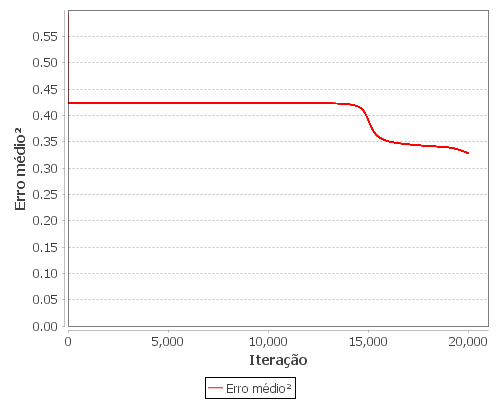
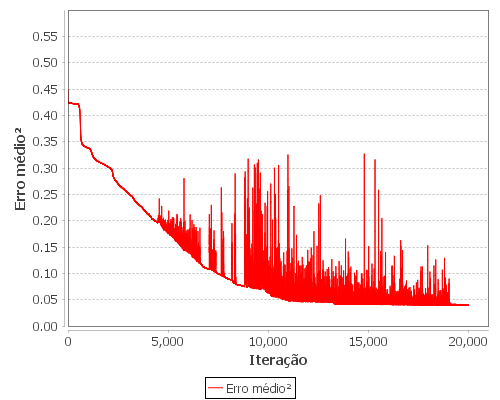
quarta camada adicionada

diff --git a/Digital Signal Processing/src/view/MLP_Functions.java b/Digital Signal Processing/src/view/MLP_Functions.java
@@ -30,7 +30,7 @@ public class MLP_Functions {
     }
     //********************************************************
     
-    public static void feed_forward(double[][] feature_matrix, int index, Neuron[] first_hidden_layer, Neuron[] second_hidden_layer, Neuron[] third_hidden_layer, Neuron[] output_layer){
+    public static void feed_forward(double[][] feature_matrix, int index, Neuron[] first_hidden_layer, Neuron[] second_hidden_layer, Neuron[] third_hidden_layer, Neuron[] fourth_hidden_layer, Neuron[] output_layer){
         for(int i=0; i<first_hidden_layer.length; i++){ //from input to first hidden layer
             first_hidden_layer[i].setActivation_value(0);
             for(int j=0; j<feature_matrix[0].length-1; j++){
@@ -61,11 +61,21 @@ public class MLP_Functions {
             third_hidden_layer[i].setActivation_value(sigmoid_function(third_hidden_layer[i].getActivation_value()));
         }
         
-        for(int i=0; i<output_layer.length; i++){ //from third hidden layer to output layer
-            output_layer[i].setActivation_value(0);
+        for(int i=0; i<fourth_hidden_layer.length; i++){ //from third to fourth hidden layer
+            fourth_hidden_layer[i].setActivation_value(0);
             for(int j=0; j<third_hidden_layer.length; j++){
+                fourth_hidden_layer[i].setActivation_value(fourth_hidden_layer[i].getActivation_value() +
+                        third_hidden_layer[j].getActivation_value() * fourth_hidden_layer[i].getWeights()[j]);
+            }
+            fourth_hidden_layer[i].setActivation_value(fourth_hidden_layer[i].getActivation_value() + fourth_hidden_layer[i].getBias());
+            fourth_hidden_layer[i].setActivation_value(sigmoid_function(fourth_hidden_layer[i].getActivation_value()));
+        }
+        
+        for(int i=0; i<output_layer.length; i++){ //from fourth hidden layer to output layer
+            output_layer[i].setActivation_value(0);
+            for(int j=0; j<fourth_hidden_layer.length; j++){
                 output_layer[i].setActivation_value(output_layer[i].getActivation_value() + 
-                        third_hidden_layer[j].getActivation_value() * output_layer[i].getWeights()[j]);
+                        fourth_hidden_layer[j].getActivation_value() * output_layer[i].getWeights()[j]);
             }
             output_layer[i].setActivation_value(output_layer[i].getActivation_value() + output_layer[i].getBias());
             output_layer[i].setActivation_value(sigmoid_function(output_layer[i].getActivation_value()));
@@ -132,20 +142,38 @@ public class MLP_Functions {
     }
     //******************************************************************************************************    
     
-    public static void backpropagation(Neuron[] output_layer, Neuron[] third_hidden_layer, Neuron[] second_hidden_layer, Neuron[] first_hidden_layer, double[] target_values, double learning_rate, double[][] feature_matrix, int index){ 
+    public static void backpropagation(Neuron[] output_layer, Neuron[] fourth_hidden_layer, Neuron[] third_hidden_layer, Neuron[] second_hidden_layer, Neuron[] first_hidden_layer, double[] target_values, double learning_rate, double[][] feature_matrix, int index){ 
         double[] dCost_dA= new double[output_layer.length]; 
         double[] dA_dZ= new double[output_layer.length];
-        double[][] auxiliar_output_weights= new double[third_hidden_layer.length][output_layer.length];
+        double[][] auxiliar_output_weights= new double[fourth_hidden_layer.length][output_layer.length];
         for(int i=0; i<output_layer.length; i++){  //updating output neurons weights
             dCost_dA[i]= output_layer[i].getActivation_value() - target_values[i];
             dA_dZ[i]= output_layer[i].getActivation_value() * (1.0 - output_layer[i].getActivation_value());//d_sigmoid
             //dA_dZ[i]= 1; //d_softmax
-            for(int j=0; j<third_hidden_layer.length; j++){
-                double dZ_dW= third_hidden_layer[j].getActivation_value();  
+            for(int j=0; j<fourth_hidden_layer.length; j++){
+                double dZ_dW= fourth_hidden_layer[j].getActivation_value();  
                 double dCost_dW= dCost_dA[i] * dA_dZ[i] * dZ_dW;//full
                 auxiliar_output_weights[j][i]= output_layer[i].getWeights()[j] - learning_rate * dCost_dW;
             }
             output_layer[i].setBias(output_layer[i].getBias() - learning_rate * dCost_dA[i] * dA_dZ[i]);
+        }
+        //------------------------------------------------------------------------------------------------------------
+        //------------------------------------------------------------------------------------------------------------
+        double[] dCost_dA_fourth= new double[fourth_hidden_layer.length];
+        double[] dA_dZ_fourth= new double[fourth_hidden_layer.length];
+        double[][] auxiliar_fourth_hidden_weights= new double[third_hidden_layer.length][fourth_hidden_layer.length];
+        for(int i=0; i<fourth_hidden_layer.length; i++){ //updating fourth hidden neuron weights
+            dCost_dA_fourth[i]= 0;
+            for(int k=0; k<output_layer.length; k++){
+                dCost_dA_fourth[i]+= dCost_dA[k] * dA_dZ[k] * output_layer[k].getWeights()[i];
+            }
+            dA_dZ_fourth[i]= fourth_hidden_layer[i].getActivation_value() * (1.0 - fourth_hidden_layer[i].getActivation_value());
+            for(int j=0; j<third_hidden_layer.length; j++){
+                double dZ_dW_fourth= third_hidden_layer[j].getActivation_value();
+                double dCost_dW_fourth= dCost_dA_fourth[i] * dA_dZ_fourth[i] * dZ_dW_fourth;
+                auxiliar_fourth_hidden_weights[j][i]= fourth_hidden_layer[i].getWeights()[j] - learning_rate * dCost_dW_fourth;
+            }
+            fourth_hidden_layer[i].setBias(fourth_hidden_layer[i].getBias() - learning_rate * dCost_dA_fourth[i] * dA_dZ_fourth[i]);
         }
         //------------------------------------------------------------------------------------------------------------
         //------------------------------------------------------------------------------------------------------------
@@ -155,7 +183,7 @@ public class MLP_Functions {
         for(int i=0; i<third_hidden_layer.length; i++){ //updating third hidden neuron weights
             dCost_dA_third[i]= 0;
             for(int k=0; k<output_layer.length; k++){
-                dCost_dA_third[i]+= dCost_dA[k] * dA_dZ[k] * output_layer[k].getWeights()[i];
+                dCost_dA_third[i]+= dCost_dA_fourth[k] * dA_dZ_fourth[k] * fourth_hidden_layer[k].getWeights()[i]; 
             }
             dA_dZ_third[i]= third_hidden_layer[i].getActivation_value() * (1.0 - third_hidden_layer[i].getActivation_value());
             for(int j=0; j<second_hidden_layer.length; j++){
@@ -207,6 +235,7 @@ public class MLP_Functions {
         
         //updating the weights
         update_weights(output_layer, auxiliar_output_weights);
+        update_weights(fourth_hidden_layer, auxiliar_fourth_hidden_weights);
         update_weights(third_hidden_layer, auxiliar_third_hidden_weights);
         update_weights(second_hidden_layer, auxiliar_second_hidden_weights);
         update_weights(first_hidden_layer, auxiliar_first_hidden_weights);

diff --git a/Digital Signal Processing/src/view/MLP.java b/Digital Signal Processing/src/view/MLP.java
@@ -33,11 +33,13 @@ public class MLP {
         Neuron[] first_hidden_layer= new Neuron[NUMBER_OF_HIDDEN_NEURONS];
         Neuron[] second_hidden_layer= new Neuron[NUMBER_OF_HIDDEN_NEURONS];
         Neuron[] third_hidden_layer= new Neuron[NUMBER_OF_HIDDEN_NEURONS];
+        Neuron[] fourth_hidden_layer= new Neuron[NUMBER_OF_HIDDEN_NEURONS];
         Neuron[] output_layer= new Neuron[NUMBER_OF_CLASSES];
         
         MLP_Functions.init_neurons(first_hidden_layer, train[0].length-1);
         MLP_Functions.init_neurons(second_hidden_layer, NUMBER_OF_HIDDEN_NEURONS);
         MLP_Functions.init_neurons(third_hidden_layer, NUMBER_OF_HIDDEN_NEURONS);
+        MLP_Functions.init_neurons(fourth_hidden_layer, NUMBER_OF_HIDDEN_NEURONS);
         MLP_Functions.init_neurons(output_layer, NUMBER_OF_HIDDEN_NEURONS);
         
         ArrayList<Double> error= new ArrayList<>();
@@ -46,14 +48,14 @@ public class MLP {
         while(it< max_it && ERROR!=0){
             ERROR=0;   int count=0; 
             for(int i=0; i<training_amount; i++){   
-                MLP_Functions.feed_forward(train, i, first_hidden_layer, second_hidden_layer, third_hidden_layer, output_layer);                
+                MLP_Functions.feed_forward(train, i, first_hidden_layer, second_hidden_layer, third_hidden_layer, fourth_hidden_layer, output_layer);                
                 int label= (int) train[i][train[0].length-1];
                 if(MLP_Functions.winner_neuron(output_layer)== label){
                     count+=1;
                 }
                 ERROR+= MLP_Functions.calculate_totalError(output_layer, train_target[i]);
                 //ERROR+= MLP_Functions.cross_entropy_error(train_target[i], output_layer);
-                MLP_Functions.backpropagation(output_layer, third_hidden_layer, second_hidden_layer, first_hidden_layer, train_target[i], learning_rate, train, i);
+                MLP_Functions.backpropagation(output_layer, fourth_hidden_layer, third_hidden_layer, second_hidden_layer, first_hidden_layer, train_target[i], learning_rate, train, i);
             }
             System.out.print("ERRO Médio²= "+(ERROR/training_amount)); error.add((ERROR/training_amount));
             System.out.print(" || acertos no conjunto de TREINAMENTO: "+count+" de "+training_amount);
@@ -62,7 +64,7 @@ public class MLP {
 
             int test_amount= test.length; double accuracy= 0; double error_test=0;
             for(int i=0; i<test_amount; i++){
-                MLP_Functions.feed_forward(test, i, first_hidden_layer, second_hidden_layer, third_hidden_layer, output_layer);
+                MLP_Functions.feed_forward(test, i, first_hidden_layer, second_hidden_layer, third_hidden_layer, fourth_hidden_layer, output_layer);
                 int label= (int) test[i][test[0].length-1];
                 if(MLP_Functions.winner_neuron(output_layer)== label){
                     accuracy+=1;
